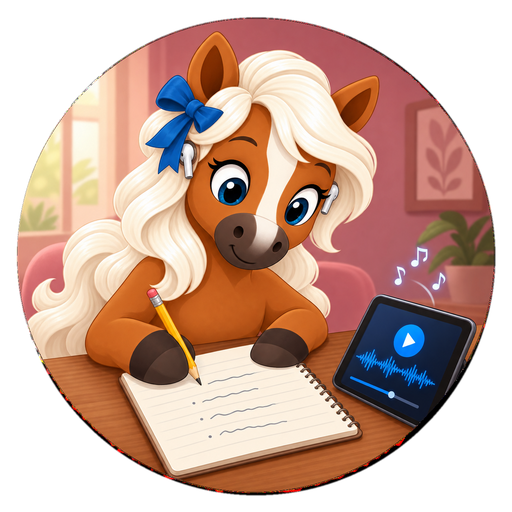
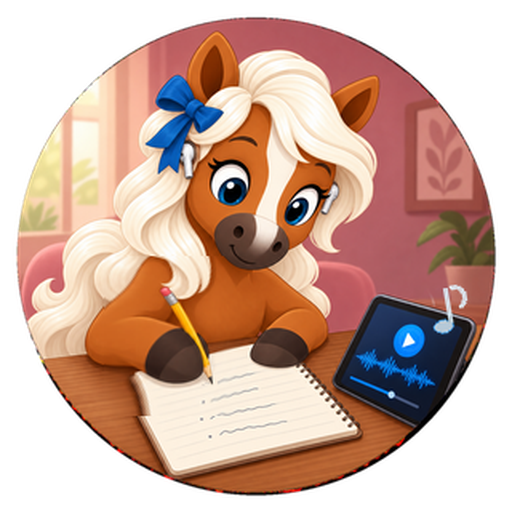
[fast-deploy] [listening-release] Smooth Elsie writing and animate audio notes

diff --git a/listening-system.html b/listening-system.html
@@ -41,8 +41,8 @@
       <div class="header-actions edmund-system-header__actions">
         <button class="elsie-listening-toggle" type="button" data-elsie-listening-toggle data-playing="true" aria-label="暫停 Elsie 聆聽動畫" aria-pressed="true" title="點擊暫停 Elsie 聆聽動畫">
           <picture class="elsie-listening-art">
-            <source media="(prefers-reduced-motion: reduce)" srcset="listening-elsie/stills/elsie-01.png?v=20261022-listening1">
-            <img src="listening-elsie/elsie-listening.gif?v=20261022-listening1" width="78" height="78" alt="Elsie 在粉紅色書房戴著耳機，一邊聽平板錄音一邊在筆記簿上寫字">
+            <source media="(prefers-reduced-motion: reduce)" srcset="listening-elsie/stills/elsie-01.png?v=20261022-listening2">
+            <img src="listening-elsie/elsie-listening.gif?v=20261022-listening2" width="78" height="78" alt="Elsie 在粉紅色書房戴著耳機，一邊聽平板錄音一邊在筆記簿上寫字">
           </picture>
         </button>
         <span class="connection-pill" data-connection data-state="checking">正在連接</span>
@@ -63,7 +63,7 @@
             <p>DSE Paper 3 Part A 與 IELTS Listening 練習。按照自己的節奏，清楚聽見每一個細節。</p>
           </div>
           <div class="sound-wave" aria-hidden="true"><i></i><i></i><i></i><i></i><i></i><i></i><i></i></div>
-          <img class="listening-hero-illustration" src="listening-elsie/elsie-listening-poster.png?v=20261022-listening1" alt="" aria-hidden="true" decoding="async">
+          <img class="listening-hero-illustration" src="listening-elsie/elsie-listening-poster.png?v=20261022-listening2" alt="" aria-hidden="true" decoding="async">
         </article>
         <section class="login-panel panel" aria-labelledby="listening-login-title">
           <p class="eyebrow">STUDENT LOGIN</p>
@@ -83,7 +83,7 @@
     <section class="view" data-view="dashboard" hidden>
       <section class="dashboard-hero panel">
         <div><p class="eyebrow">LISTENING PRACTICE</p><h1>英語聆聽系統</h1><p data-welcome></p></div>
-        <img class="dashboard-elsie-illustration" src="listening-elsie/elsie-listening-poster.png?v=20261022-listening1" width="160" height="160" alt="" aria-hidden="true">
+        <img class="dashboard-elsie-illustration" src="listening-elsie/elsie-listening-poster.png?v=20261022-listening2" width="160" height="160" alt="" aria-hidden="true">
       </section>
       <section class="system-grid">
         <button class="system-card dse" type="button" data-open-section="dse"><span>01</span><strong>DSE Paper 3 Part A 聆聽</strong><small>香港中學文憑試綜合能力聆聽練習</small></button>
@@ -209,7 +209,7 @@
   <script src="listening-practice-1-analysis.js?v=20260822-1"></script>
   <script src="listening-practice-1-timings.js?v=20260822-1"></script>
   <script src="shared-system-nav.js?v=20260924-wallet1"></script>
-  <script defer src="listening-elsie-toggle.js?v=20261022-listening1"></script>
+  <script defer src="listening-elsie-toggle.js?v=20261022-listening2"></script>
   <script type="module" src="listening-system.js?v=20261017-r2-cors2"></script>
 <script type="module" src="study-support.mjs?v=20260911-corners1"></script></body>
 </html>

diff --git a/listening-elsie-toggle.js b/listening-elsie-toggle.js
@@ -6,7 +6,7 @@
   const reducedMotionSource = button.querySelector('source[media="(prefers-reduced-motion: reduce)"]');
   const gifSrc = image.getAttribute('src');
   const stillSources = Array.from({ length: 7 }, (_, index) =>
-    `listening-elsie/stills/elsie-${String(index + 1).padStart(2, '0')}.png?v=20261022-listening1`
+    `listening-elsie/stills/elsie-${String(index + 1).padStart(2, '0')}.png?v=20261022-listening2`
   );
   const storageKey = 'edmund-listening-elsie-playing';
   let playing = true;

diff --git a/tools/mascot-art/listening/build_elsie_listening.py b/tools/mascot-art/listening/build_elsie_listening.py
@@ -11,7 +11,7 @@ import math
 from pathlib import Path
 
 import numpy as np
-from PIL import Image, ImageDraw, ImageFilter, ImageFont
+from PIL import Image, ImageDraw, ImageFilter
 
 
 ROOT = Path(__file__).resolve().parents[3]
@@ -19,9 +19,10 @@ ART = ROOT / "assets" / "mascots" / "elsie-listening"
 PUBLIC = ROOT / "listening-elsie"
 MASTER = ART / "elsie-listening-master.png"
 BLINK = ART / "elsie-listening-blink-key.png"
+NOTES_CLEAN = ART / "elsie-listening-notes-clean-key.png"
 STILLS = PUBLIC / "stills"
-FRAMES = 72
-FRAME_MS = 42  # About 3 seconds per loop.
+FRAMES = 120
+FRAME_MS = 30  # 120 in-between frames over approximately 3.6 seconds.
 WORK = 320
 DELIVERY = 160
 
@@ -36,6 +37,14 @@ def circle_clean(image: Image.Image) -> Image.Image:
     return image
 
 
+def remove_static_notes(master: Image.Image, clean_key: Image.Image) -> Image.Image:
+    """Use only the image-generated note-free wall patch; preserve approved art."""
+    patch = Image.new("L", master.size, 0)
+    ImageDraw.Draw(patch).ellipse((915, 558, 1130, 745), fill=255)
+    patch = patch.filter(ImageFilter.GaussianBlur(13))
+    return Image.composite(clean_key, master, patch)
+
+
 def eye_mask() -> Image.Image:
     mask = Image.new("L", (1254, 1254), 0)
     d = ImageDraw.Draw(mask)
@@ -47,11 +56,11 @@ def eye_mask() -> Image.Image:
 def move_hoof(image: Image.Image, dx: float, dy: float) -> Image.Image:
     # Dense local remap makes the hoof/pencil action move without exposing a
     # hole or shifting the surrounding room. Feathering goes to zero at ROI.
-    roi = (75, 174, 139, 248)
+    roi = (65, 160, 155, 260)
     left, top, right, bottom = roi
     source = np.asarray(image, dtype=np.float32)
     yy, xx = np.mgrid[top:bottom, left:right].astype(np.float32)
-    weight = np.exp(-(((xx - 106) / 21) ** 4 + ((yy - 213) / 29) ** 4))
+    weight = np.exp(-(((xx - 107) / 35) ** 4 + ((yy - 213) / 46) ** 4))
     sx = np.clip(xx - dx * weight, 0, WORK - 2)
     sy = np.clip(yy - dy * weight, 0, WORK - 2)
     x0 = np.floor(sx).astype(np.int32)
@@ -69,33 +78,47 @@ def move_hoof(image: Image.Image, dx: float, dy: float) -> Image.Image:
     return Image.fromarray(np.uint8(np.clip(result, 0, 255)), "RGBA")
 
 
+def draw_music_note(opacity: int, angle: float) -> Image.Image:
+    """A legible vector note with a proper head, stem and flag."""
+    note = Image.new("RGBA", (34, 42), (0, 0, 0, 0))
+    d = ImageDraw.Draw(note)
+    light = (225, 245, 255, opacity)
+    blue = (90, 178, 244, opacity)
+    d.ellipse((6, 27, 18, 35), fill=light, outline=blue, width=1)
+    d.line((17, 29, 17, 8), fill=light, width=3)
+    d.arc((15, 7, 29, 22), 257, 70, fill=light, width=3)
+    return note.rotate(angle, Image.Resampling.BICUBIC, expand=True)
+
+
 def note_overlay(frame: int) -> Image.Image:
     layer = Image.new("RGBA", (WORK, WORK), (0, 0, 0, 0))
     t = frame / FRAMES
-    d = ImageDraw.Draw(layer)
-    try:
-        font = ImageFont.truetype("/System/Library/Fonts/Supplemental/Arial Unicode.ttf", 17)
-    except OSError:
-        font = ImageFont.load_default()
-    for phase, x, y in ((0.15, 269, 179), (0.55, 250, 169)):
+    for phase, x, y, swing in (
+        (0.04, 252, 180, 1),
+        (0.27, 264, 187, -1),
+        (0.52, 246, 179, 1),
+        (0.76, 258, 184, -1),
+    ):
         age = (t - phase) % 1
-        if age < 0.35:
-            opacity = round(155 * math.sin(math.pi * age / 0.35))
-            d.text((x + 2 * age, y - 14 * age), "♪", font=font,
-                   fill=(184, 224, 255, opacity), stroke_width=1,
-                   stroke_fill=(49, 121, 188, opacity // 3))
+        if age < 0.30:
+            progress = age / 0.30
+            opacity = round(230 * math.sin(math.pi * progress))
+            sideways = swing * 8 * math.sin(2 * math.pi * progress)
+            note = draw_music_note(opacity, -14 + 28 * math.sin(2 * math.pi * progress))
+            layer.alpha_composite(note, (round(x + sideways), round(y - 32 * progress)))
     return layer
 
 
 def render_frame(base: Image.Image, blink: Image.Image, mask: Image.Image, frame: int) -> Image.Image:
     t = frame / FRAMES
     # A short, eased listening-note stroke; all coordinates return at the seam.
-    dx = 2.8 * math.sin(2 * math.pi * (2 * t + 0.06))
-    dy = 0.65 * math.sin(2 * math.pi * (2 * t + 0.31))
+    dx = 12.5 * math.sin(2 * math.pi * (2 * t + 0.06))
+    dy = 2.1 * math.sin(2 * math.pi * (2 * t + 0.31))
     image = move_hoof(base, dx, dy)
 
-    # Four-frame blink, with eyelids sampled only from the edited eye key.
-    blink_strength = {35: 0.32, 36: 0.8, 37: 1.0, 38: 0.8, 39: 0.32}.get(frame, 0)
+    # A six-frame eyelid cycle, sampled only from the edited eye key.
+    blink_strength = {62: 0.22, 63: 0.58, 64: 0.9, 65: 1.0,
+                      66: 0.9, 67: 0.58, 68: 0.22}.get(frame, 0)
     if blink_strength:
         local_mask = mask.point(lambda v: round(v * blink_strength))
         image = Image.composite(blink, image, local_mask)
@@ -115,8 +138,9 @@ def render_frame(base: Image.Image, blink: Image.Image, mask: Image.Image, frame
 
 def gif_palette(frame: Image.Image) -> Image.Image:
     # Reserve index 0 for truly transparent pixels, including circle corners.
-    rgb = Image.new("RGB", frame.size, (255, 0, 255))
-    rgb.paste(frame.convert("RGB"), mask=frame.getchannel("A"))
+    # Preserve interior edge colours. Blending them against the transparent
+    # index colour would produce a visible magenta fringe around the circle.
+    rgb = frame.convert("RGB")
     pal = rgb.quantize(colors=255, method=Image.Quantize.FASTOCTREE)
     palette = [255, 0, 255] + pal.getpalette()[:255 * 3]
     palette += [0] * (768 - len(palette))
@@ -133,16 +157,18 @@ def main() -> None:
     PUBLIC.mkdir(parents=True, exist_ok=True)
     STILLS.mkdir(parents=True, exist_ok=True)
     master = circle_clean(Image.open(MASTER))
+    clean_key = circle_clean(Image.open(NOTES_CLEAN))
+    master = remove_static_notes(master, clean_key)
     blink_key = circle_clean(Image.open(BLINK))
     master.save(ART / "elsie-listening-clean.png", optimize=True)
     base = master.resize((WORK, WORK), Image.Resampling.LANCZOS)
     blink = blink_key.resize((WORK, WORK), Image.Resampling.LANCZOS)
     mask = eye_mask()
     rendered = [render_frame(base, blink, mask, i) for i in range(FRAMES)]
-    for index, frame_number in enumerate((0, 9, 18, 27, 37, 49, 61), 1):
+    for index, frame_number in enumerate((0, 17, 34, 51, 65, 86, 105), 1):
         still = rendered[frame_number].resize((256, 256), Image.Resampling.LANCZOS)
         still.save(STILLS / f"elsie-{index:02d}.png", optimize=True)
-    master.resize((512, 512), Image.Resampling.LANCZOS).save(
+    rendered[17].resize((512, 512), Image.Resampling.LANCZOS).save(
         PUBLIC / "elsie-listening-poster.png", optimize=True
     )
     frames = [gif_palette(frame.resize((DELIVERY, DELIVERY), Image.Resampling.LANCZOS)) for frame in rendered]
